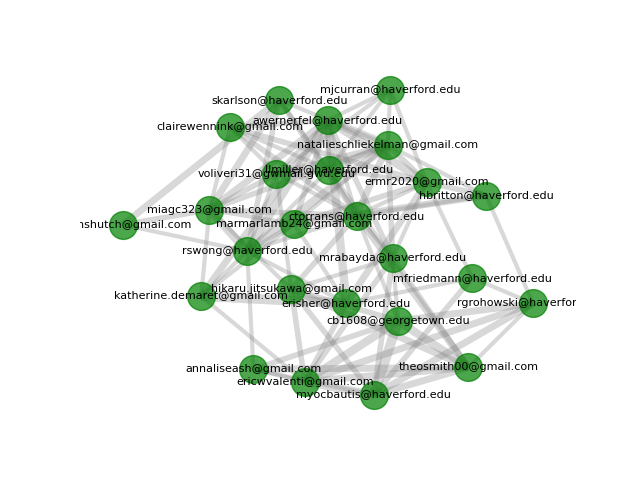
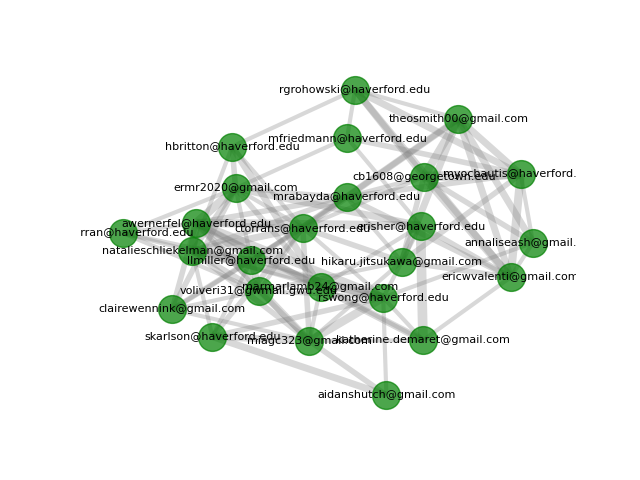
complete subgraph implementation

Changed region(s): [[0.125, 0.1562, 0.9062, 0.875]]

diff --git a/streamlit.py b/streamlit.py
@@ -119,7 +119,8 @@ def get_top_similar(graph, email, top_n=5):
     formatted_output = [(neighbor, data['weight']) for neighbor, data in sorted_neighbors[:top_n]]
 
     return formatted_output
-def create_top_n_subgraph(graph, email, top_n=5):
+
+def create_top_n_subgraph(graph, email, top_n=5, weight_threshold=2):
     if email not in graph:
         return None, "Email not found in the network."
 
@@ -129,7 +130,28 @@ def create_top_n_subgraph(graph, email, top_n=5):
 
     # Create the subgraph
     subgraph = graph.subgraph(top_emails)
+    # # Plot the subgraph
+    # plt.figure(figsize=(8, 6))
+    # pos = nx.spring_layout(subgraph)  # or any other layout you prefer
+    # nx.draw(subgraph, pos, with_labels=True, node_color='green', edge_color='gray', node_size=500, font_size=10)
+    
+    # Filter edges based on weight threshold
+    edges_to_keep = [(u, v) for u, v, d in subgraph.edges(data=True) if d['weight'] > weight_threshold]
+    subgraph = subgraph.edge_subgraph(edges_to_keep).copy()
 
+    # Get edge weights for plotting
+    widths = nx.get_edge_attributes(subgraph, "weight")
+
+    # Plot the subgraph
+    plt.figure(figsize=(4, 4))
+    pos = nx.kamada_kawai_layout(subgraph)  # layout for visualization
+    nx.draw_networkx_nodes(subgraph, pos, node_size=400, node_color='green', alpha=0.7)
+    nx.draw_networkx_edges(subgraph, pos, edgelist=widths.keys(), width=list(widths.values()), edge_color='gray', alpha=0.3)
+    nx.draw_networkx_labels(subgraph, pos, font_size=8, font_color='black')
+
+    # Save the plot
+    # Save the plot
+    plt.box(False)
     plt.savefig('subgraph.png',format='png')
 
 
@@ -341,10 +363,18 @@ st.image('network.png', caption='Network of current users')
 with st.form("user_data"):
    st.write("Find My Concert Friends!")
    my_data = st.selectbox('Pick your username from this list', listOfUsers)
-   st.form_submit_button('Submit')
+   submitted = st.form_submit_button('Submit')
 
-# This is outside the form
-st.write("Top 5 Connections")
-table_df = pd.DataFrame(get_top_similar(graph, my_data), columns=['Email', 'Similarity Score'])
-table_df.index = table_df.index+1
-st.table(table_df)
+   if submitted:
+       #subgraph here
+       create_top_n_subgraph(graph, my_data)
+       st.image('subgraph.png',caption='Your Top Connections!')
+       st.write("Top 5 Connections")
+       table_df = pd.DataFrame(get_top_similar(graph, my_data), columns=['Email', 'Similarity Score'])
+       table_df.index = table_df.index+1
+       st.table(table_df)
+
+
+
+
+
